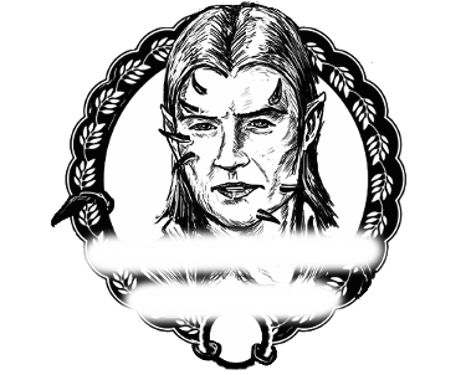
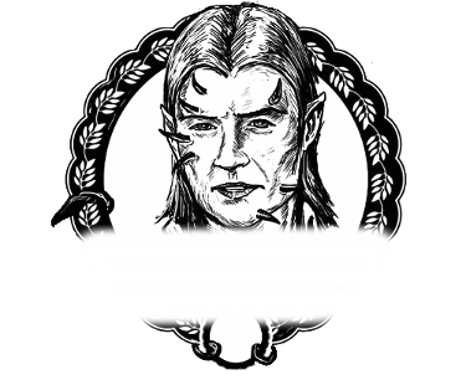
neuer wuerfel button unfolstaendig, neues bild

diff --git a/Source/src/view/stylesheets/MainMenu.css b/Source/src/view/stylesheets/MainMenu.css
@@ -59,14 +59,17 @@
 
 
 .button-wuerfeln	{
-	-fx-background-position: 45% 40%;
+	-fx-font-size: 1.15em;
+	-fx-padding: 79.0px 0.0px 0.0px 0.0px; 
+	-fx-background-position: 50% 0%;
+    -fx-background-size: 125%;
 	-fx-background-image: url('/img/dornelf_v3.png');
 }
 
 
 
 .button-gruppen	{
-	-fx-padding: 98 0 0 0;
+	-fx-padding: 0.0 0.0 0.0 0.0;
 	-fx-background-position: 50% 30%;
     -fx-background-size: 60%;
 	-fx-background-image: url('/img/gruppe.jpg');
